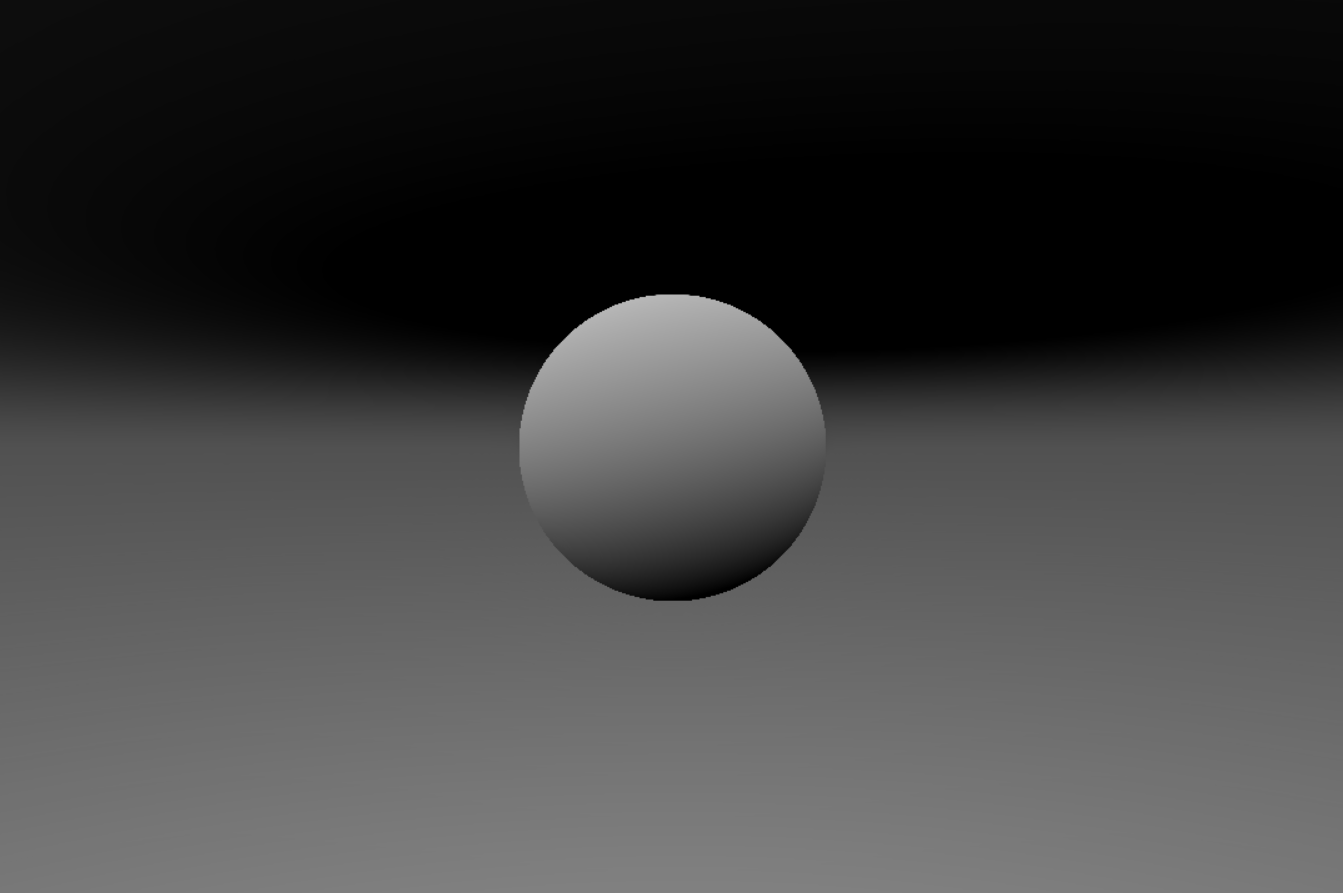
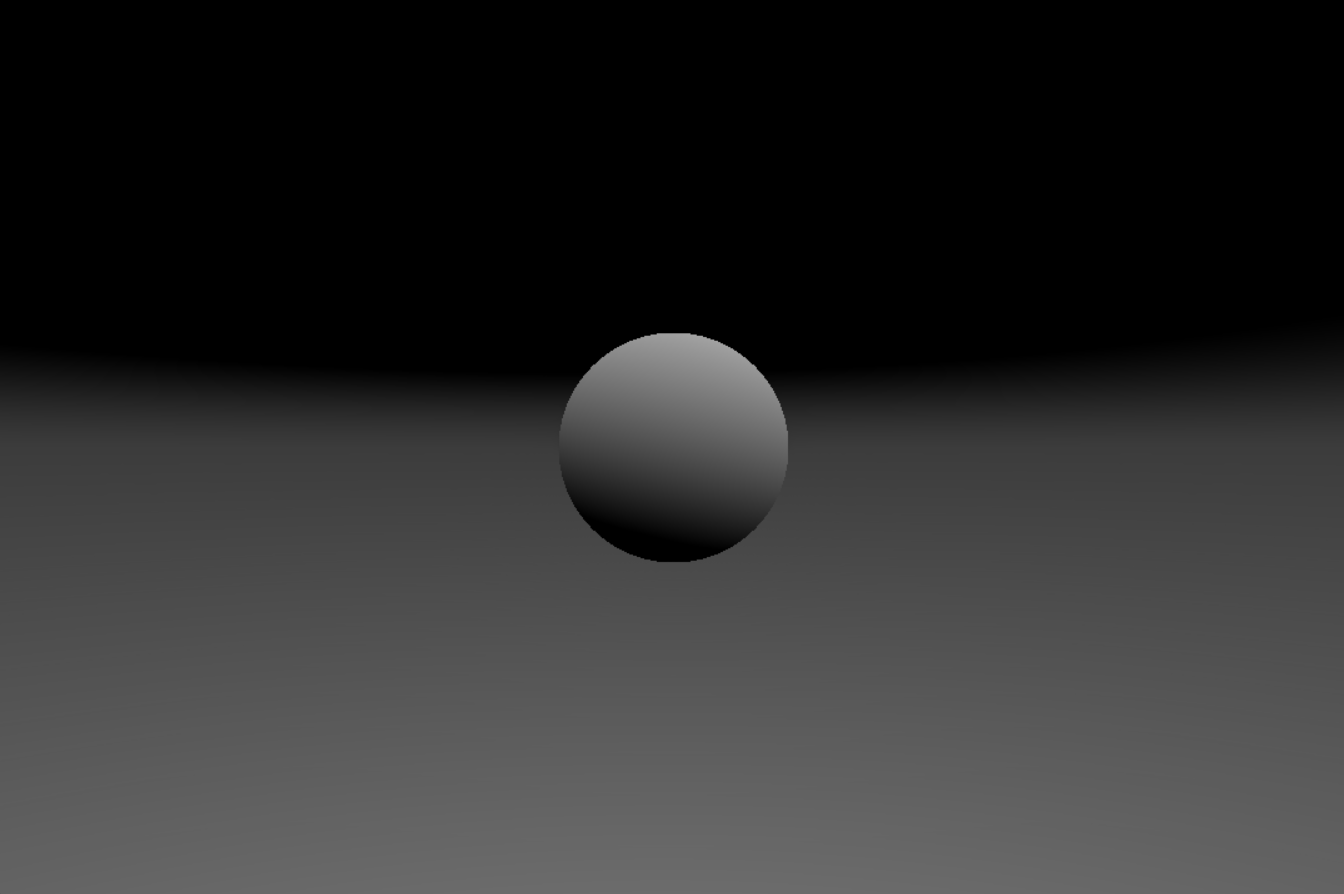
Small update

Changed region(s): [[0.3663, 0.3024, 0.6411, 0.6954], [0.0, 0.3628, 0.3663, 0.4535]]

diff --git a/src/main.rs b/src/main.rs
@@ -1,11 +1,9 @@
+use minifb::{Key, KeyRepeat, Window, WindowOptions};
 use rayon::prelude::*;
-
 use std::time::Duration;
 
-use minifb::{Key, Window, WindowOptions};
-use utils::{Vec2, Vec3, Vec4};
-
 mod utils;
+use utils::{Vec2, Vec3, Vec4};
 
 const WIDTH: usize = 1080;
 const HEIGHT: usize = 720;
@@ -14,14 +12,28 @@ const MAX_STEPS: i32 = 100;
 const SURFACE_DIST: f64 = 0.01;
 const MAX_DIST: f64 = 100.0;
 
+// fn s_box(p: Vec3, s: Vec3) -> f64 {
+//     vec![p.abs() - s, Vec3::new(0.0, 0.0, 0.0)]
+//         .into_iter()
+//         .max_by(|a, b| a.magnitude().partial_cmp(&b.magnitude()).unwrap())
+//         .unwrap()
+//         .magnitude()
+// }
+
+fn s_sphere(p: Vec3, s: Vec4) -> f64 {
+    (p - s.to_vec3()).magnitude() - s.w
+}
+
 fn get_dist(p: Vec3) -> f64 {
-    let sphere = Vec4::new(0.0, 1.0, 6.0, 1.0);
-    let ds = (p.clone() - sphere.to_vec3()).magnitude() - sphere.w;
+    let ds = s_sphere(p.clone(), Vec4::new(0.0, 1.0, 6.0, 0.75));
+    // let db = s_box(
+    //     p.clone() - Vec3::new(2.0, 1.0, 6.0),
+    //     Vec3::new(1.0, 1.0, 1.0),
+    // );
+
     let dp = p.clone().y;
-    return vec![ds, dp]
-        .into_iter()
-        .min_by(|a, b| a.partial_cmp(b).unwrap())
-        .unwrap();
+
+    vec![dp, ds].iter().copied().fold(f64::INFINITY, f64::min)
 }
 
 fn get_normal(p: Vec3) -> Vec3 {
@@ -33,17 +45,14 @@ fn get_normal(p: Vec3) -> Vec3 {
             get_dist(p.clone() - e.yxy()),
             get_dist(p.clone() - e.yyx()),
         );
-    return n.normalize();
+    n.normalize()
 }
 
-fn get_light(p: Vec3, time: f64) -> f64 {
-    let mut light_pos = Vec3::new(0.0, 5.0, 6.0);
-    light_pos.x += time.sin();
-    light_pos.z += time.cos();
+fn get_light(p: Vec3) -> f64 {
+    let light_pos = Vec3::new(-1.0, 5.0, 6.0);
     let l = (light_pos - p.clone()).normalize();
     let n = get_normal(p.clone());
-    let diff = n.x * l.x + n.y * l.y + n.z * l.z;
-    return diff;
+    n.dot(l)
 }
 
 fn raymarch(ro: Vec3, rd: Vec3) -> f64 {
@@ -60,42 +69,42 @@ fn raymarch(ro: Vec3, rd: Vec3) -> f64 {
 }
 
 fn main() {
+    let mut first_launch = true;
     let mut buffer: Vec<u32> = vec![0; WIDTH * HEIGHT];
-    let mut time: f64 = 60.0;
-
     let mut window = Window::new("ray2m", WIDTH, HEIGHT, WindowOptions::default())
         .unwrap_or_else(|e| panic!("{}", e));
 
     window.limit_update_rate(Some(Duration::from_micros(16600)));
 
     while window.is_open() && !window.is_key_down(Key::Escape) {
-        buffer
-            .par_iter_mut()
-            .enumerate()
-            .for_each(|(index, pixel)| {
-                let i = index / WIDTH;
-                let j = index % WIDTH;
+        if window.is_key_pressed(Key::R, KeyRepeat::No) || first_launch {
+            buffer
+                .par_iter_mut()
+                .enumerate()
+                .for_each(|(index, pixel)| {
+                    let i = index / WIDTH;
+                    let j = index % WIDTH;
 
-                let x = j as f64;
-                let y = i as f64;
-                let width = WIDTH as f64;
-                let height = HEIGHT as f64;
+                    let x = j as f64;
+                    let y = i as f64;
+                    let width = WIDTH as f64;
+                    let height = HEIGHT as f64;
 
-                let uv = (Vec2::new(x, y) - Vec2::new(width, height) * 0.5) / height;
-                let ro = Vec3::new(0.0, 1.0, 0.0);
-                let rd = Vec3::new(uv.x, uv.y, 1.0).normalize();
+                    let uv = (Vec2::new(x, y) - Vec2::new(width, height) * 0.5) / height;
+                    let ro = Vec3::new(0.0, 1.0, 0.0);
+                    let rd = Vec3::new(uv.x, uv.y, 1.0).normalize();
 
-                let d = raymarch(ro.clone(), rd.clone());
-                let p = ro + rd * d;
-                let dif = get_light(p, time / 60.0);
+                    let d = raymarch(ro.clone(), rd.clone());
+                    let p = ro + rd * d;
+                    let dif = get_light(p);
 
-                let rounded_value = (255.0 / 3.0 - (dif * 100.0).round()).round() as u32;
-                *pixel = (rounded_value as u32) << 16
-                    | (rounded_value as u32) << 8
-                    | rounded_value as u32;
-            });
+                    let rounded_value = (255.0 / 4.0 - (dif * 100.0).round()).round() as u32;
+                    *pixel = (rounded_value << 16) | (rounded_value << 8) | rounded_value;
+                });
+
+            first_launch = false;
+        }
 
         window.update_with_buffer(&buffer, WIDTH, HEIGHT).unwrap();
-        time += 1.0;
     }
 }

diff --git a/src/utils.rs b/src/utils.rs
@@ -78,20 +78,6 @@ impl Vec4 {
         Vec4 { x, y, z, w }
     }
 
-    pub fn magnitude(&self) -> f64 {
-        (self.x.powi(2) + self.y.powi(2) + self.z.powi(2) + self.w.powi(2)).sqrt()
-    }
-
-    pub fn normalize(&self) -> Vec4 {
-        let mag = self.magnitude();
-        Vec4 {
-            x: self.x / mag,
-            y: self.y / mag,
-            z: self.z / mag,
-            w: self.w / mag,
-        }
-    }
-
     pub fn to_vec3(&self) -> Vec3 {
         Vec3 {
             x: self.x,
@@ -148,26 +134,6 @@ impl ops::Div<f64> for Vec2 {
 impl Vec2 {
     pub fn new(x: f64, y: f64) -> Vec2 {
         Vec2 { x, y }
-    }
-
-    pub fn magnitude(&self) -> f64 {
-        (self.x.powi(2) + self.y.powi(2)).sqrt()
-    }
-
-    pub fn normalize(&self) -> Vec2 {
-        let mag = self.magnitude();
-        Vec2 {
-            x: self.x / mag,
-            y: self.y / mag,
-        }
-    }
-
-    pub fn to_vec3(&self) -> Vec3 {
-        Vec3 {
-            x: self.x,
-            y: self.y,
-            z: 0.0,
-        }
     }
 
     pub fn xyy(&self) -> Vec3 {
@@ -249,19 +215,15 @@ impl Vec3 {
         }
     }
 
-    pub fn to_vec2(&self) -> Vec2 {
-        Vec2 {
-            x: self.x,
-            y: self.y,
-        }
-    }
+    // pub fn abs(&self) -> Vec3 {
+    //     Vec3 {
+    //         x: self.x.abs(),
+    //         y: self.y.abs(),
+    //         z: self.z.abs(),
+    //     }
+    // }
 
-    pub fn to_vec4(&self) -> Vec4 {
-        Vec4 {
-            x: self.x,
-            y: self.y,
-            z: self.z,
-            w: 0.0,
-        }
+    pub fn dot(&self, v: Vec3) -> f64 {
+        self.x * v.x + self.y * v.y + self.z * v.z
     }
 }

diff --git a/README.md b/README.md
@@ -1,3 +1,3 @@
 # ray2m
-Простой raymarching на Rust. Все вычисления идут на CPU, что делает программу медленней, идет переработка -> [ray2mg](https://github.com/Kowkodivka/ray2mg)
+Простой raymarching на Rust
 ![](image.png)
